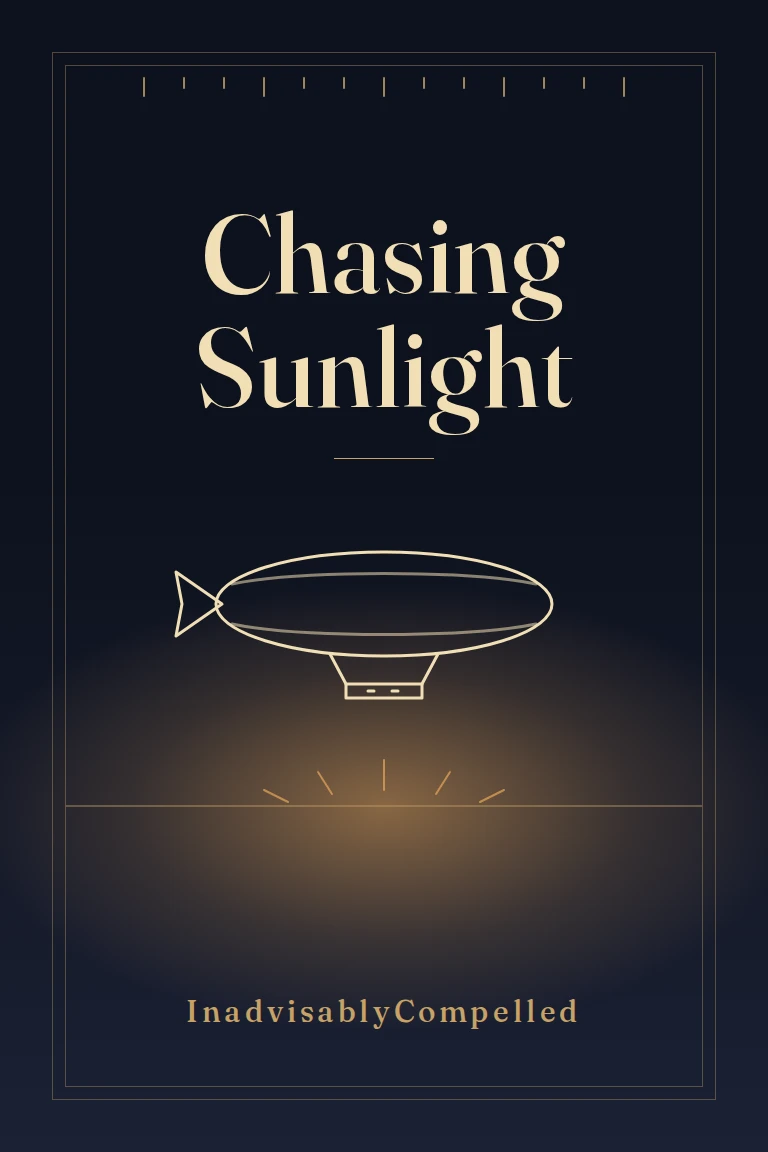
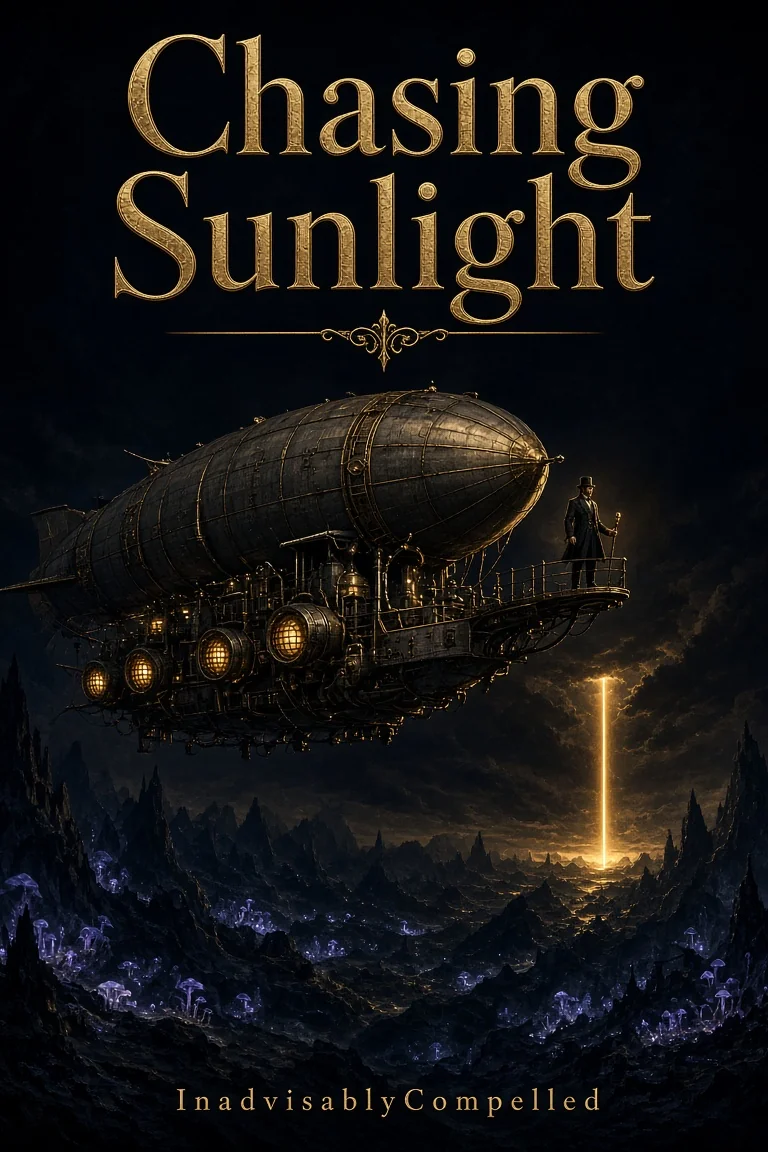
feat: ship supplied original web-novel covers (Cinnamon Bun, Chasing Sunlight, Mr. Penn)

diff --git a/scripts/library/longreads.js b/scripts/library/longreads.js
@@ -1197,8 +1197,11 @@ async function restoreMissingLongReadCovers(){
    and the Kindle store page. `title` is the real English title; `koTitle` is
    its Korean reading and `koSubtitle` a short Korean line about the story.
 
-   Covers are Breeze-made typographic covers (title + author only,
-   tools/make-webnovel-covers.mjs), never the authors' own cover art.
+   Covers are supplied ORIGINAL art made for Breeze (movie-poster style),
+   delivered as bytes and verified by exact sha256 — they are NOT the authors'
+   own cover art and are NOT generated by the retired
+   tools/make-webnovel-covers.mjs. Provenance (filename / bytes / dimensions /
+   sha256) lives in assets/webnovels/covers/README.md.
 
    HARD RULES, encoded verbatim below:
    - 'Cinnamon Bun' by RavensDagger: zero monetization — only the Royal Road

diff --git a/assets/webnovels/covers/README.md b/assets/webnovels/covers/README.md
@@ -1,0 +1,25 @@
+# Web-novel covers
+
+These three covers are **original art made for Breeze** (movie-poster style).
+They are **not** the authors' own cover art, and they are **not** generated by
+the retired `tools/make-webnovel-covers.mjs`; they are supplied bytes verified
+by exact sha256.
+
+Each file is a 768 × 1152 WebP (q85). The paths are the ones used by
+`WEB_NOVELS[].cover` (`assets/webnovels/covers/${id}.webp`), so they render on
+the 추천 (웹소설 tab) cards, the 내 책 cards, and the detail/preview page.
+
+Alt text for each cover is **title + author**:
+
+- `cinnamon-bun.webp` — Cinnamon Bun, RavensDagger
+- `chasing-sunlight.webp` — Chasing Sunlight, InadvisablyCompelled
+- `mr-penn.webp` — The Unexpected Engagement of the Marvelous Mr. Penn, R. K. Goff
+
+| Filename | Bytes | Dimensions | sha256 |
+| --- | ---: | --- | --- |
[3 lines of base64/hex data omitted]
+
+`tests/verify-web-novels.mjs` pins these exact sha256s along with the WebP
+magic and 768 × 1152 dimensions.

diff --git a/assets/longreads/covers/README.md b/assets/longreads/covers/README.md
@@ -42,3 +42,7 @@ New catalog cards and imports use these covers. Existing bundled books lacking
 covers receive their catalog cover asynchronously after Home appears. Existing
 saved/custom covers are preserved; source text and reading identity are never
 replaced. The Backrooms cover and its licensing record are unchanged.
+
+Web-novel covers live separately in
+[`assets/webnovels/covers/README.md`](../../webnovels/covers/README.md) and are
+original art made for Breeze, pinned by sha256.
